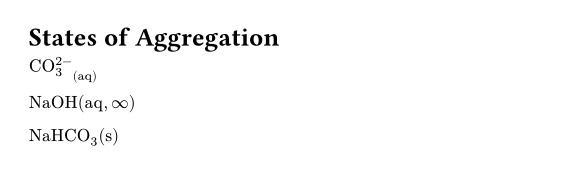
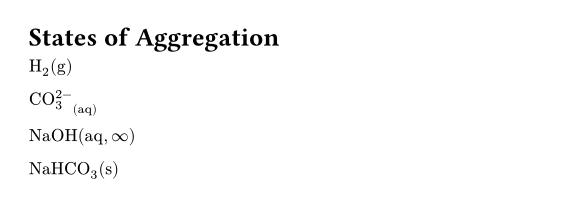
Update Examples

Changed region(s): [[0.0312, 0.1176, 0.5, 0.7353], [0.0312, 0.7353, 0.2188, 0.8824]]

diff --git a/README.md b/README.md
@@ -16,7 +16,7 @@ The number preceding by other letters is subscripted by default.
 
 #ch("Sb2O3")
 ```
-<img alt="example-01" src="https://github.com/user-attachments/assets/17373f66-373d-49ed-b497-16241df870c4" />
+<img alt="example-01" src="https://github.com/pacaunt/chemformula/blob/main/docs/assets/example1.png" />
 
 ### Chemical Equations
 You can use `->` to draw arrow. The length will changes according to the content being above or below the arrow. The arrow is rendered using Typst's [stretch function](https://typst.app/docs/reference/math/stretch/).
@@ -27,7 +27,7 @@ You can use `->` to draw arrow. The length will changes according to the content
 #ch("Hg^2+ ->[I^-] HgI2
            ->[I^-] [Hg^II I4]^2- ")
 ```
-<img alt="example-02" src="https://github.com/user-attachments/assets/c986a131-9765-4118-9cc9-303ce88d0c16" />
+<img alt="example-02" src="https://github.com/pacaunt/chemformula/blob/main/docs/assets/example2.png" />
 
 ### Charges
 Plus and minus signs coming after the text are superscript positioned by default. However, you may use `^` operator to raise them upper. The `^` operator will superscript the content until a space or a semicolon (`;`) is typed.
@@ -42,7 +42,7 @@ Plus and minus signs coming after the text are superscript positioned by default
 #ch("Y^99+") // or
 #ch("Y^(99+)") // Same
 ```
-<img alt="example-03" src="https://github.com/user-attachments/assets/733f34c4-b12e-4c58-a569-897b6f37dd99" />
+<img alt="example-03" src="https://github.com/pacaunt/chemformula/blob/main/docs/assets/example3.png" />
 
 ### Oxidation States 
 Typing `^^` gives the ability to put things above the elements. This operator captures content in parenthesis/or until black space is met.
@@ -50,7 +50,7 @@ Typing `^^` gives the ability to put things above the elements. This operator ca
 #ch("Fe^^II Fe^^III_2 O4") // or 
 #ch("Fe^^(II)Fe^^(III)_(2)O4") // Same
 ```
-<img alt="example-04" src="https://github.com/user-attachments/assets/998bb37f-5368-41f6-b847-676a946af992" />
+<img alt="example-04" src="https://github.com/pacaunt/chemformula/blob/main/docs/assets/example4.png" />
 
 ### Stoichiometric Numbers 
 Since the content is evaluated in math mode, the fractions are rendered by default. If one space is present between the compound and digits, then thin space is used. If more than one spaces are typed, then full one normal space will be used.
@@ -65,7 +65,7 @@ Since the content is evaluated in math mode, the fractions are rendered by defau
 
 #ch("1\/2 H2O") // 
 ```
-<img  alt="example-05" src="https://github.com/user-attachments/assets/9713350a-43db-416d-8bc7-52ca6a48ae6a" />
+<img  alt="example-05" src="https://github.com/pacaunt/chemformula/blob/main/docs/assets/example5.png" />
 
 ### Nuclides, Isotopes 
 The syntax writing nuclides is *preceding* the `^` for mass number or `_` for atomic number with space/or begining of the string. Otherwise, the operator will attach to the preceding content.
@@ -78,7 +78,7 @@ The syntax writing nuclides is *preceding* the `^` for mass number or `_` for at
 
 #ch("_-1^0 n-")
 ```
-<img  alt="example-06" src="https://github.com/user-attachments/assets/f09940cb-58db-4a9d-a90c-f9d629f369d4" />
+<img  alt="example-06" src="https://github.com/pacaunt/chemformula/blob/main/docs/assets/example6.png" />
 
 ### Parenthesis, Braces, Brackets
 In Typst, parentheses are automatically sized by default. If you finding this ugly, you can disrupt them by typing `\` before the parentheses group. To force a group of parenthesis between substances to big-size, wrap the whole reaction with [display](https://typst.app/docs/reference/introspection/counter/#definitions-display) function.
@@ -91,18 +91,20 @@ In Typst, parentheses are automatically sized by default. If you finding this ug
 
 $display(ch("CH4 + 2(O2 + 7/2N2)"))$ // Hack with math mode
 ```
-<img  alt="example-07" src="https://github.com/user-attachments/assets/37520c8e-d760-406a-9e95-9ac9e870a193" />
+<img  alt="example-07" src="https://github.com/pacaunt/chemformula/blob/main/docs/assets/example7.png" />
 
 ### States of Aggregation 
 Normally, lower case letters are considered math variables, and multiple form of them will be symbol/variable call. This follows the Typst's naive math syntax. However, `(aq)` is preserved by the parser as math variable that evaluates to `$a q$`. 
-```typ
-#ch("H2(aq)")
+```example 
+#ch("H2(g)")
 
 #ch("CO3^2-_((aq))")
 
 #ch("NaOH(aq, $oo$)")
+
+#ch("NaHCO3(s)")
 ```
-<img alt="example-08" src="https://github.com/user-attachments/assets/a73906d3-2fec-47f7-8573-be5919a43c06" />
+<img alt="example-08" src="https://github.com/pacaunt/chemformula/blob/main/docs/assets/example8.png" />
 
 You can use `$..$` syntax for escaping the parser so that the content inside will be directly evaluated by math mode. 
 
@@ -114,7 +116,7 @@ You can use `$..$` syntax for escaping the parser so that the content inside wil
 
 #ch("NO^((2*)-)")
 ```
-<img alt="example-09" src="https://github.com/user-attachments/assets/81bd6016-e607-44a0-80c9-c1d9dd58dafe" />
+<img alt="example-09" src="https://github.com/pacaunt/chemformula/blob/main/docs/assets/example9.png" />
 
 ### Escaped Modes
 Contents inside `$..$` will be escaped by the parser and evaluated in math mode directly bypassing other grammars.  So you can type greek letters or other variables in math in this mode, for example.
@@ -131,7 +133,7 @@ Contents inside `$..$` will be escaped by the parser and evaluated in math mode 
 // Or just type texts...
 #ch("mu\"-\"Cl") // Hyphen Escaped
 ```
-<img alt="example-10" src="https://github.com/user-attachments/assets/c8f04a9f-8969-431f-84b8-390a7323b192" />
+<img alt="example-10" src="https://github.com/pacaunt/chemformula/blob/main/docs/assets/example10.png" />
 
 ## Reaction Arrows 
 ```typ
@@ -143,7 +145,7 @@ Contents inside `$..$` will be escaped by the parser and evaluated in math mode 
 
 #ch("A <=> B")
 ```
-<img  alt="example-11" src="https://github.com/user-attachments/assets/b75faaf3-ca93-467e-b6c6-6303c29da129" />
+<img  alt="example-11" src="https://github.com/pacaunt/chemformula/blob/main/docs/assets/example11.png" />
 
 ### Above/Below Arrow Text 
 ```typ
@@ -153,7 +155,7 @@ Contents inside `$..$` will be escaped by the parser and evaluated in math mode 
 
 #ch("CH3COOH <=>[+ OH-][+ H+] CH3COO-")
 ```
-<img alt="example-12" src="https://github.com/user-attachments/assets/34d651ce-e4c3-4933-833e-d3b36e33bcb8" />
+<img alt="example-12" src="https://github.com/pacaunt/chemformula/blob/main/docs/assets/example12.png" />
 
 ### Precipitation and Gas 
 This feature has *very* dedicate syntax: the `^` or `v` must precede -and- folows by white space.
@@ -162,7 +164,7 @@ This feature has *very* dedicate syntax: the `^` or `v` must precede -and- folow
 
 #ch("A v B v -> B ^ B ^")
 ```
-<img  alt="example-13" src="https://github.com/user-attachments/assets/f52e47bb-ed98-487b-a525-ca3f567de329" />
+<img  alt="example-13" src="https://github.com/pacaunt/chemformula/blob/main/docs/assets/example13.png" />
 
 ### Alignments
 ```typ
@@ -170,7 +172,7 @@ $ ch("A &-> B") \
   ch("B &-> C + D")
 $
 ```
-<img  alt="example-14" src="https://github.com/user-attachments/assets/9bf7f6a3-92bf-40b8-a9fc-20a178b10bcd" />
+<img  alt="example-14" src="https://github.com/pacaunt/chemformula/blob/main/docs/assets/example14.png" />
 
 ### Bonds 
 You can use a double dash `--`, to indicate single bond, double equal sign `==` for double bonds, and double tilde `~~` for triple bonds. 
@@ -181,7 +183,7 @@ You can use a double dash `--`, to indicate single bond, double equal sign `==` 
 
 #ch("HC~~CH")
 ```
-<img alt="example-15" src=https://github.com/pacaunt/chemformula/blob/main/docs/assets/example/example15.png>
+<img alt="example-15" src=https://github.com/pacaunt/chemformula/blob/main/docs/assets/example15.png>
 
 ### More Examples 
 Integration seamlessly with Typst's math mode.
@@ -193,7 +195,7 @@ $
   limits(ch("[Zn(OH)4]^2-"))_"Hydroxozikat"
 $
 ```
-<img alt="example-15" src="https://github.com/user-attachments/assets/4da96416-ec73-4100-af90-23610ac7b3b1" />
+<img alt="example-15" src="https://github.com/pacaunt/chemformula/blob/main/docs/assets/example16.png" />
 
 You can use user-defined functions in `ch`. However, you must add the definition of this function into the `scope` parameter of `ch`.
 
@@ -206,7 +208,7 @@ $ ch("Hg^2+ ->[I-] HgI2
             ->[I-] [Hg^II I4]^2-
 ") $
 ```
-<img alt="example-16" src="https://github.com/user-attachments/assets/a870ad91-612e-471f-8bf6-ea8211311e08" />
+<img alt="example-16" src="https://github.com/pacaunt/chemformula/blob/main/docs/assets/example17.png" />
 
 
 # Acknowledgement 
